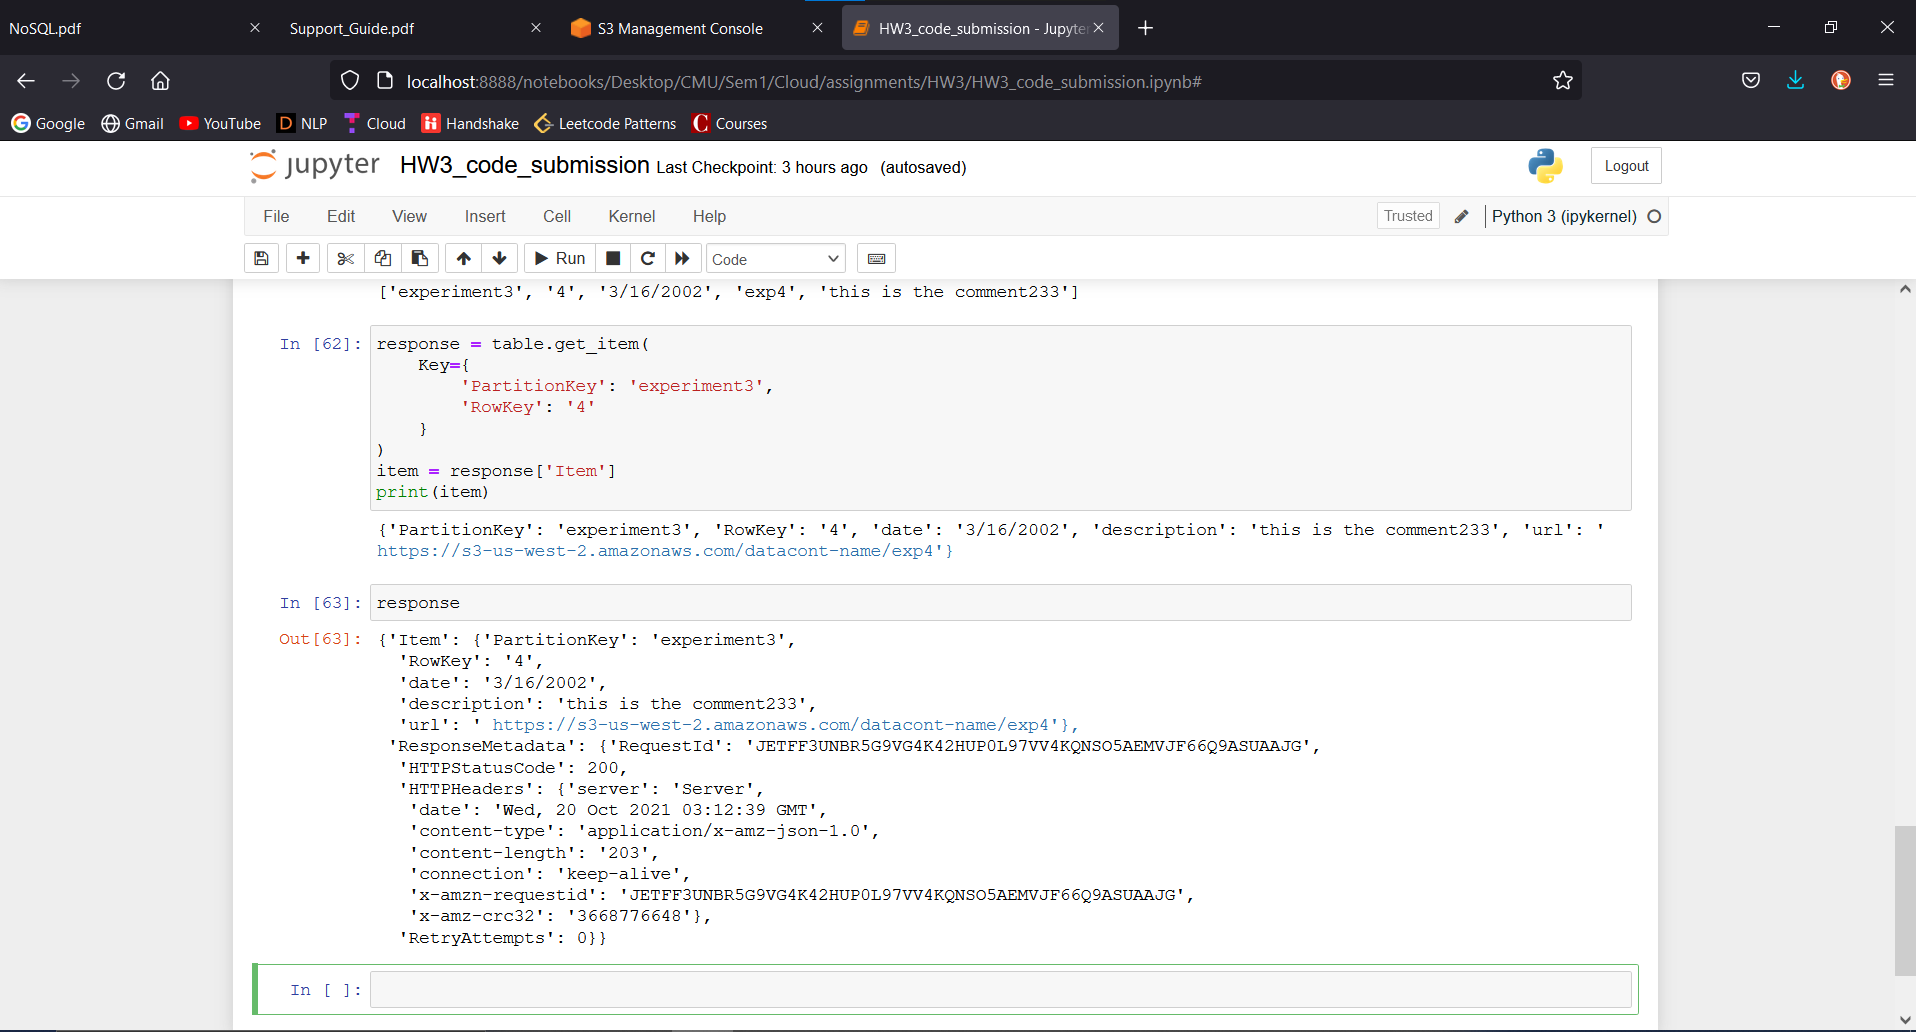
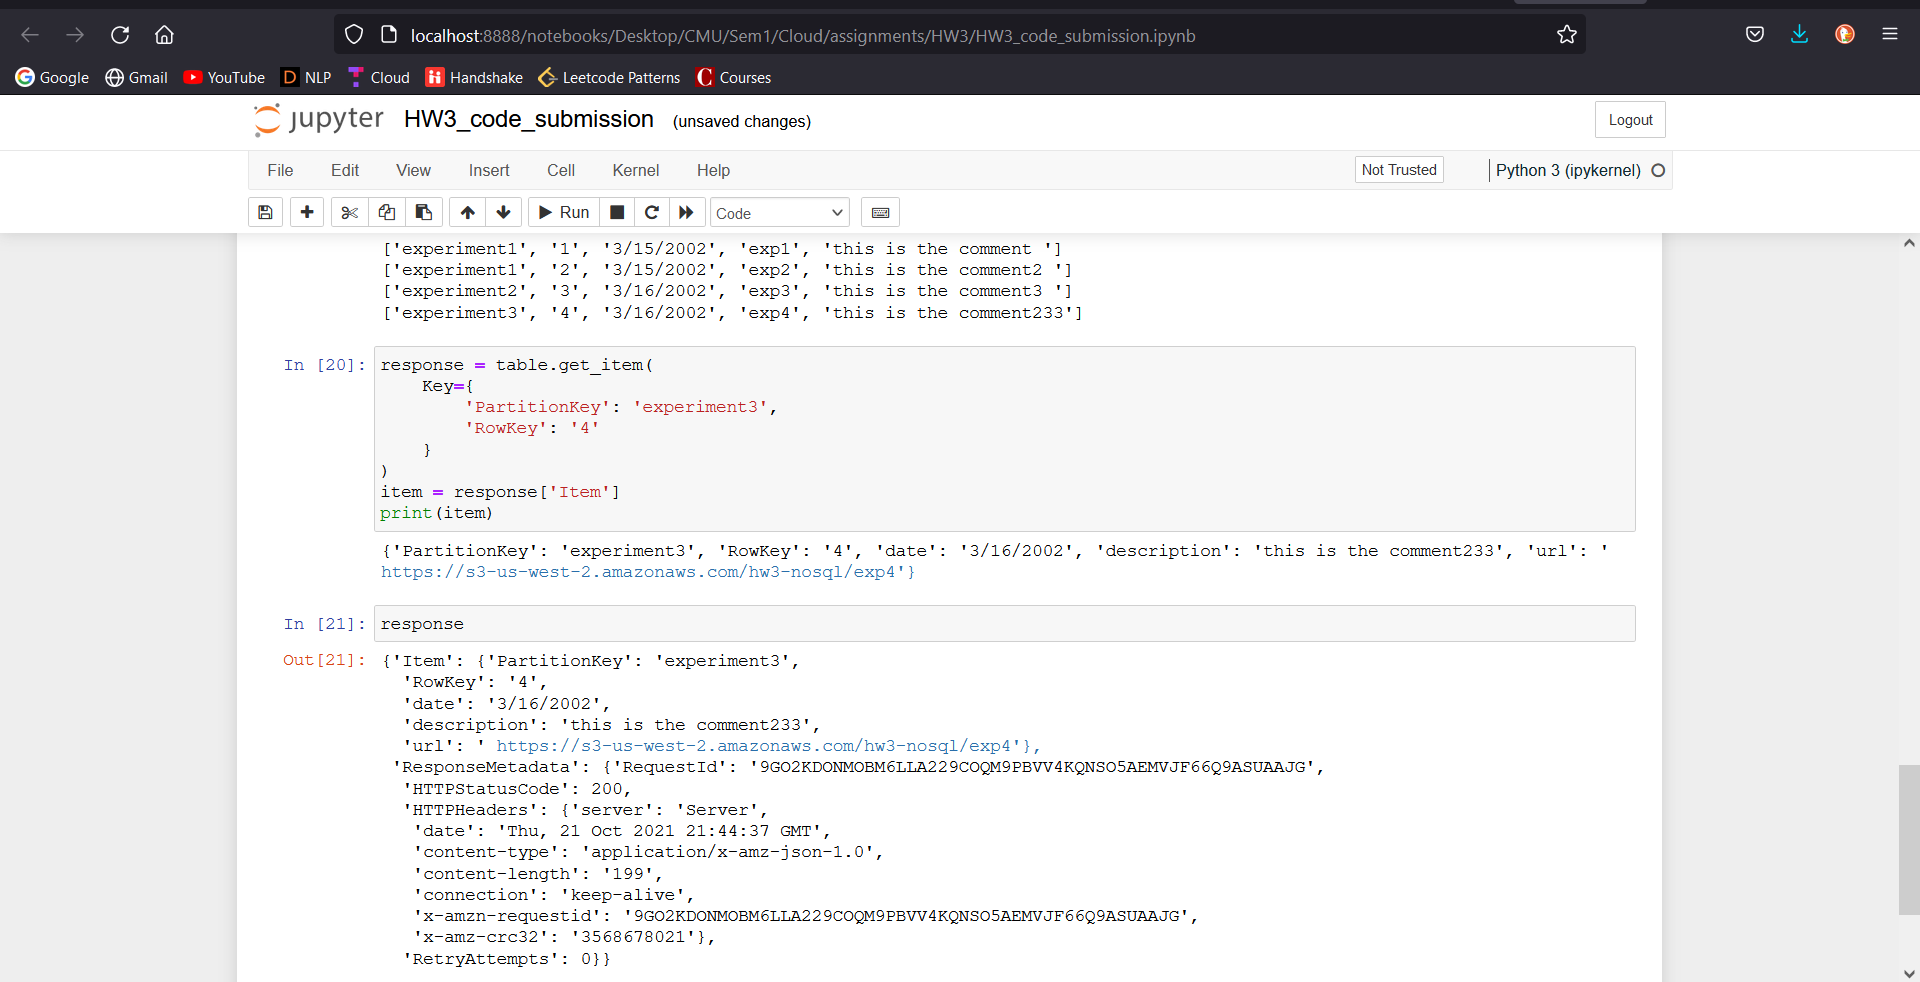
Modifying url of storage

diff --git a/HW3_code_submission.py b/HW3_code_submission.py
@@ -1,19 +1,19 @@
 #!/usr/bin/env python
 # coding: utf-8
 
-# In[48]:
+# In[1]:
 
 
 import boto3 as boto
 
 
-# In[49]:
+# In[5]:
 
 
-s3 = boto.resource('s3', aws_access_key_id='redacting_for_security', aws_secret_access_key='redacting_for_security')
+s3 = boto.resource('s3', aws_access_key_id='security_redaction', aws_secret_access_key='security_redaction')
 
 
-# In[50]:
+# In[6]:
 
 
 try: 
@@ -22,43 +22,43 @@ except Exception as e:
     print (e)
 
 
-# In[51]:
+# In[7]:
 
 
 bucket = s3.Bucket('hw3-nosql') 
 
 
-# In[52]:
+# In[8]:
 
 
 bucket.Acl().put(ACL='public-read') 
 
 
-# In[53]:
+# In[9]:
 
 
 body = open('.\exp1.csv', 'rb') 
 
 
-# In[54]:
+# In[10]:
 
 
 o = s3.Object('hw3-nosql', 'test').put(Body=body)
 
 
-# In[55]:
+# In[11]:
 
 
 s3.Object('hw3-nosql', 'test').Acl().put(ACL='public-read')
 
 
-# In[56]:
+# In[14]:
 
 
-dyndb = boto.resource('dynamodb', region_name='us-west-2', aws_access_key_id='redacting_for_security', aws_secret_access_key='redacting_for_security' )
+dyndb = boto.resource('dynamodb', region_name='us-west-2', aws_access_key_id='security_redaction', aws_secret_access_key='security_redaction' )
 
 
-# In[57]:
+# In[15]:
 
 
 try: 
@@ -96,25 +96,25 @@ except Exception as e:
     table = dyndb.Table("DataTable")
 
 
-# In[58]:
+# In[16]:
 
 
 table.meta.client.get_waiter('table_exists').wait(TableName='DataTable')
 
 
-# In[59]:
+# In[17]:
 
 
 print(table.item_count)
 
 
-# In[60]:
+# In[18]:
 
 
 import csv 
 
 
-# In[61]:
+# In[19]:
 
 
 with open('.\experiments.csv', 'r') as csvfile: 
@@ -126,7 +126,7 @@ with open('.\experiments.csv', 'r') as csvfile:
         s3.Object('hw3-nosql', item[3]).put(Body=body ) 
         md = s3.Object('hw3-nosql', item[3]).Acl().put(ACL='public-read') 
          
-        url = " https://s3-us-west-2.amazonaws.com/datacont-name/"+item[3] 
+        url = " https://s3-us-west-2.amazonaws.com/hw3-nosql/"+item[3] 
         metadata_item = {'PartitionKey': item[0], 'RowKey': item[1],  
                  'description' : item[4], 'date' : item[2], 'url':url}  
         try: 
@@ -135,7 +135,7 @@ with open('.\experiments.csv', 'r') as csvfile:
             print("item may already be there or another failure")
 
 
-# In[62]:
+# In[20]:
 
 
 response = table.get_item( 
@@ -148,7 +148,7 @@ item = response['Item']
 print(item)
 
 
-# In[63]:
+# In[21]:
 
 
 response
